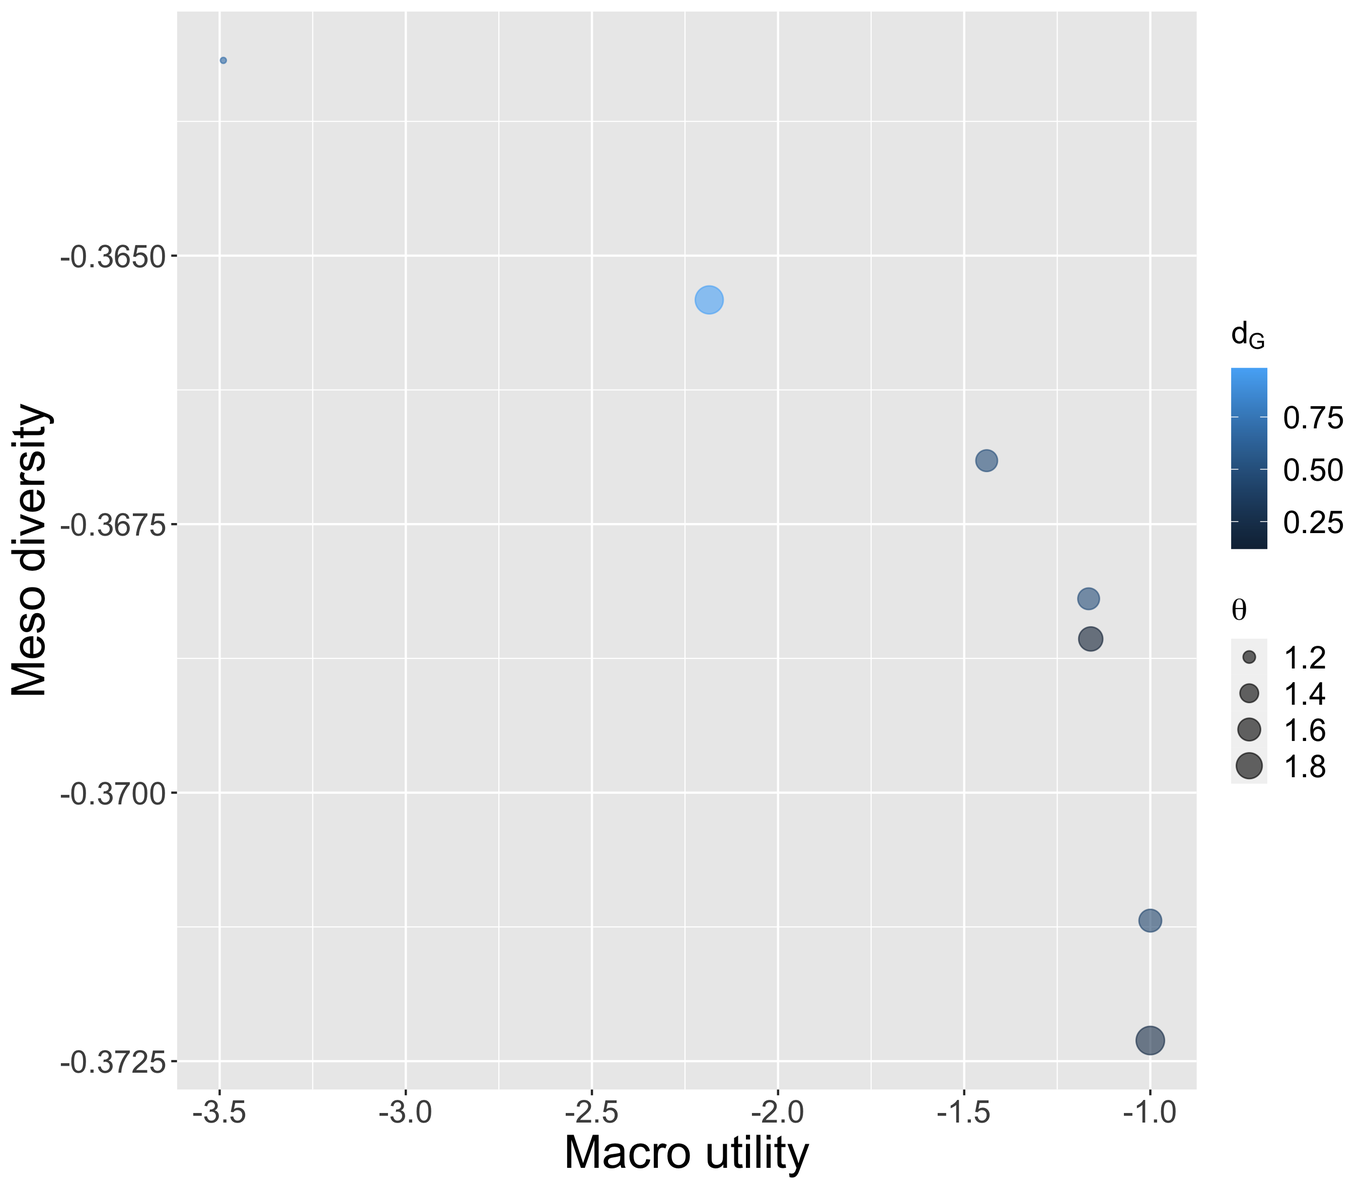
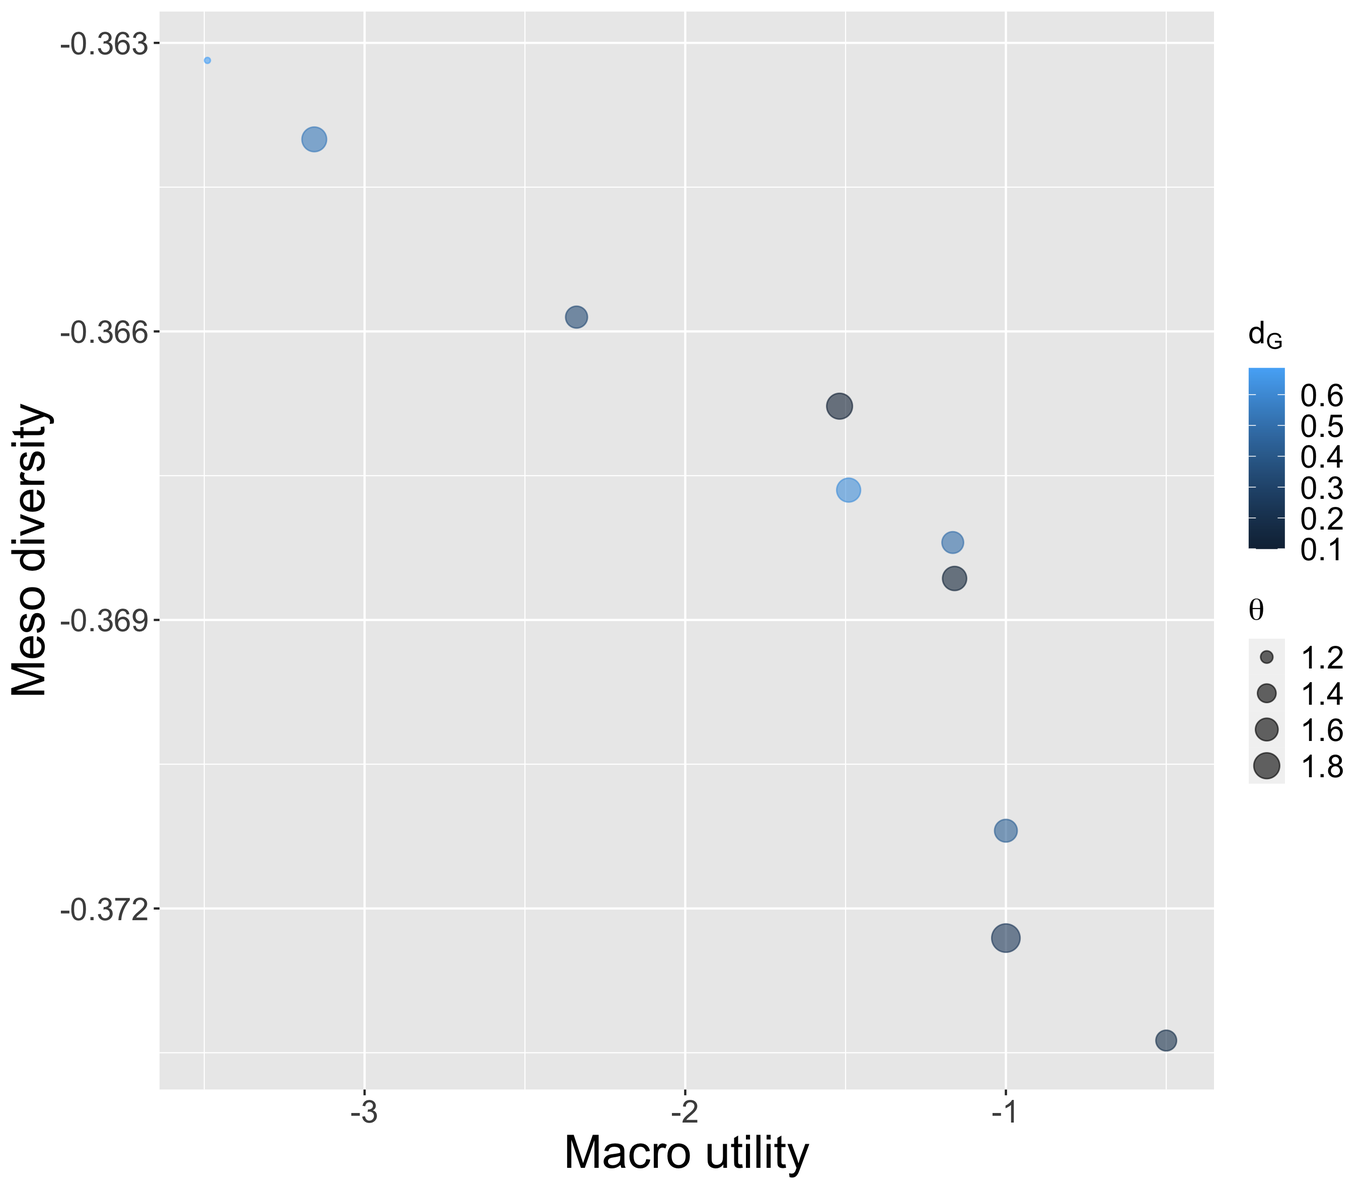
camera_ready

diff --git a/main.tex b/main.tex
@@ -6,14 +6,14 @@
 \mathtoolsset{showonlyrefs} 
 
 \title{Innovation dynamics in multi-scalar systems of cities}
-% Multi-scalar innovation dynamics in systems of cities
-%\author{Juste Raimbault$^{1,2,3,4}$ \and Denise Pumain$^{4}$\\
-%\mbox{$^1$ LASTIG, Univ. Gustave Eiffel, IGN-ENSG}\\
-%\mbox{$^2$ CASA, UCL}\\
-%\mbox{$^3$} UPS CNRS 3611 ISC-PIF\\
-%\mbox{$^4$ UMR CNRS 8504 G{\'e}ographie-cit{\'e}}s\\
-%juste.raimbault@ign.fr}
-\author{}
+
+\author{Juste Raimbault$^{1,2,3,4}$ \and Denise Pumain$^{4}$\\
+\mbox{$^1$ LASTIG, Univ. Gustave Eiffel, IGN-ENSG}\\
+\mbox{$^2$ CASA, UCL}\\
+\mbox{$^3$} UPS CNRS 3611 ISC-PIF\\
+\mbox{$^4$ UMR CNRS 8504 G{\'e}ographie-cit{\'e}}s\\
+juste.raimbault@ign.fr}
+
 % $^*$Each submission will undergo a double-blind review process. To this end, submissions should NOT contain any element that could reveal \\ the identity of the authors (author names, affiliations, funding details and acknowledgments), and should use the third person to refer to \\ previous work by the authors. These notes should be removed/commented out, but please remember that the page limit will remain, strictly, \\8 pages (not including citations) in case of acceptance, with mandatory name(s), affiliation(s), and email address of a corresponding author. \\
 
 
@@ -22,7 +22,7 @@
 
 \begin{abstract}
 % Abstract length should not exceed 250 words
-Innovation dynamics in social and technological systems are strongly linked with urban systems and their multi-scale properties. Understanding underlying processes is crucial for sustainable territorial planning. We introduce a multi-scalar model for innovation dynamics in systems of cities, coupling a macroscopic innovation diffusion and urban dynamics model with mesoscopic models for local innovation clusters. The model parameter space is explored, and we apply it to a bi-objective optimisation with objectives across scales. Implementing indicators for downward causation, we finally investigate with a diversity search algorithm the diverse regimes of emergence the model can produce. This suggests strong emergence is captured, confirming the relevance of multi-scale approaches to artificial societies and urban simulation.
+Innovation dynamics in social and technological systems are strongly linked to urban systems and their multi-scale properties. Understanding underlying processes is crucial for sustainable territorial planning. We introduce a multi-scalar model for innovation dynamics in systems of cities, coupling a macroscopic innovation diffusion and urban dynamics model with mesoscopic models for local innovation clusters. The model parameter space is explored, and we apply a bi-objective optimisation algorithm with objectives across scales. Implementing indicators for downward causation, we finally investigate with a diversity search algorithm the diverse regimes of emergence the model can produce. This suggests strong emergence is captured, confirming the relevance of multi-scale approaches to artificial societies and urban simulation.
 \end{abstract}
 
 % keywords
@@ -61,7 +61,7 @@ At the macroscopic scale, agents in the model are $N$ urban areas indexed by $i$
 
 The mesoscopic geographical scale corresponds to the internal representation of each area, which consists in a cluster of firms. The number of firms $N_i$ in each area scales with city size \citep{pumain2006evolutionary}, such that $N_i = N_0 \cdot \left(\frac{P_i (t_0)}{P_0 (t_0)}\right)^{\alpha_N}$. We furthermore consider a global rank-size law for the size of firms (number of employees), in accordance with the empirical literature \citep{axtell2001zipf}, given by $S_k = S_0 \cdot k^{- \alpha_S}$, where $k$ is sorted in decreasing order, and such that $1 \leq k \leq \sum_i N_i$. To distribute initial firms into the urban areas: (i) we assume that the size of the largest firm scales with city size $\max_{k\in i} S_k = S_0 \cdot k^{- \alpha_L}$; (ii) sampling the set of all firms previously generated, we select for each area its largest by choosing the one with a size closest to the one given by the previous law; (iii) remaining missing firms are uniformly drawn within the sample of firms smallest than the largest, starting with the smallest urban area such that all firms are distributed in the end.
 
-Each innovation cluster is initialised with random employees within each firm (an employee corresponding to a set of ideas, i.e. a multidimensional genome), and with a random fitness to maximise following \cite{raimbault2022innovation} given by a generalised Rastrigin function $y(\vec{x}) = - \sum_{i,j} m_{ij} \left[x_i^2 - 10 \cos\left(2 \pi x_i\right) \right] $ for an employee ideas $\vec{x}$ and $m_{ij}$ uniformly drawn random coefficients. Firms have uniformly distributed locations within each area. Each area has its own meso parameters (listed below), initialised at the same value but evolving in different ways with the macro trajectory of the city.
+Each innovation cluster is initialised with random employees within each firm (an employee corresponding to a set of ideas, i.e. a multidimensional genome), and with a random fitness to maximise following \cite{raimbault2022innovation} given by a generalised Rastrigin function $y(\vec{x}) = - \sum_{i,j} m_{ij} \left[x_i^2 - 10 \cos\left(2 \pi x_i\right) \right] $ for an employee ideas $\vec{x}$ and $m_{ij}$ uniformly drawn random coefficients. Such difficult optimisation landscapes have been used in the literature as a proxy of what firms seek to optimise. Firms have uniformly distributed locations within each area. Each area has its own meso parameters (listed below), initialised at the same value but evolving in different ways with the macro trajectory of the city.
 
 
 \subsubsection{Model dynamics}
@@ -90,9 +90,9 @@ The dynamics are simulated in an iterative way, starting from the initial state 
             with $\phi_c$ macro adoption levels, $d_G$ migration range parameter, $w_I$ weight parameter, and with a renormalisation by the average of gravity potentials (note the typo in \citep{raimbault2020model}: attractivity factors are indeed outside the exponential);
             \item innovative cities obtained from the meso-scale introduce new innovations, with an initial penetration rate $r_0$, and with a log-normal distributed random utility with average the current average of utilities and standard deviation a parameter $\sigma_U$ (the link between meso performance and macro utility is not endogenous, as it would require much more elaborated modelling of market processes).
         \end{itemize}
-\item \textbf{Top-down feedback:} we consider two different processes through which macro dynamics will influence the next meso innovation cycles, in a way similar to \cite{raimbault2021strong}; given the relative population growth of cities at the macro scale $\delta p = \frac{P_i(t)-P_i(t-1)}{\max_j P_i(t)-P_i(t-1)}$, we assume that this captures a dynamic urban environment with consequences on firm strategy and local exchanges (we do not consider innovation share dynamics as once again the underlying economic processes are to broad to link these with city global integration and performance);
+\item \textbf{Top-down feedback:} we consider two different processes through which macro dynamics will influence the next meso innovation cycles, in a way similar to \cite{raimbault2021strong}; given the relative population growth of cities at the macro scale $\delta p = \frac{P_i(t)-P_i(t-1)}{\max_j P_i(t)-P_i(t-1)}$, we assume that this captures a dynamic urban environment with consequences on firm strategy and local exchanges (we do not consider in this top-down feedback the other main process of the macro model, which are innovation share dynamics; once again the underlying economic processes are too broad to link these with city global integration and performance);
     \begin{itemize}
-        \item firm strategy is updated by changing crossover probability (organisation of R\&D teams) and mutation probability (access to resources) following \[p_C(t+1,i) = p_C (t,i)\cdot (1+ \beta_C \delta_p)\] and \[p_M(t+1,i) = p_M (t,i)\cdot (1+ \beta_M \delta_p)\] - a positive value for the $\beta_C$ parameter (resp. $\beta_M$) will mean that the company follows the city trend (more intensive research in growing area and less in stagnating ones), while a negative value will imply an inverse strategy (large research centers in less dynamic areas - which can occur for many other economic, geographical and social reasons, including policy incentive to redevelop such areas);
+        \item firm strategy is updated by changing crossover probability (organisation of R\&D teams) and mutation probability (access to resources) following \[p_C(t+1,i) = p_C (t,i)\cdot (1+ \beta_C \delta_p)\] and \[p_M(t+1,i) = p_M (t,i)\cdot (1+ \beta_M \delta_p)\] - a positive value for the $\beta_C$ parameter (resp. $\beta_M$) will mean that the company follows the city trend (more intensive research in growing area and less in stagnating ones), while a negative value will imply an inverse strategy (large research centres in less dynamic areas - which can occur for many other economic, geographical and social reasons, including policy incentive to redevelop such areas);
         \item the urban environment, in terms of informal exchanges, is also influenced in a similar way following
         \[p_E(t+1,i) = p_E (t,i)\cdot (1+ \beta_E \delta_p)\]
     \end{itemize}
@@ -116,14 +116,10 @@ Crucial indicators to answer our research question must be some proxy to measure
 
 \section{Results}
 
-% reorg: model parametrisation single subsec
-%\subsection{Setup for numerical experiments}
 
 \subsection{Model implementation}
 
-The simulation model is implemented in \texttt{scala} for performance purposes. The JIDT java library is used to estimate mutual information for the downward causation indicators \citep{lizier2014jidt}. The model is integrated into the OpenMOLE platform for model exploration and validation \citep{reuillon2013openmole}, which provides a transparent access to high performance computing environments and state-of-the-art sensitivity analysis and validation methods. Model source code and analysis of simulation results are available on an open git repository at \texttt{https://github.com/AnonymousAuthor1/ALife2023}.
-%Simulation data produced by the numerical experiments described below are available at \texttt{}.
-%  anon git repo ; anon dataverse?
+The simulation model is implemented in \texttt{scala} for performance purposes. The JIDT java library is used to estimate mutual information for the downward causation indicators \citep{lizier2014jidt}. The model is integrated into the OpenMOLE platform for model exploration and validation \citep{reuillon2013openmole}, which provides a transparent access to high performance computing environments and state-of-the-art sensitivity analysis and validation methods. Model source code and analysis of simulation results are available on an open git repository at \texttt{https://github.com/JusteRaimbault/}\\\texttt{InnovationMultiscale-model}.
 
 
 \subsubsection{Model parametrisation}
@@ -153,7 +149,7 @@ The parameter left free and that will be explored in the numerical experiments a
 % - statistical valid: LSH with many replications
 % ! rerun simus on grid
 
-We first test the statistical behavior of the model, in particular how much repetitions are needed to have a reasonable estimation of indicators. We use a Latin Hypercube Sampling to draw a few parameter points (10 points) in the full variable parameter space, and run 100 repetitions of the model on each. Estimating Sharpe ratios as the ratio between estimated mean and estimated standard deviation over the repetitions, we obtain across all macro and meso indicators all median ratios above 2, and a minimum across parameter points of 0.932 for the macro utility. Looking at all distance between couples of indicator averages, normalised by standard deviations (capturing the overlap between effect difference and standard errors), we find a minimal median of 0.3002 for meso diversity, while other indicators have a median around 0.4 (0.4264 for macro utility). This means a rather good statistical separability of parameter points, and that 10 repetitions are enough for the stochastic variability to induce smaller noise than confidence intervals for averages.
+We first test the statistical behavior of the model, in particular how much repetitions are needed to have a reasonable estimation of indicators. We explore a grid of 288 parameter points, and run 20 repetitions of the model on each. Estimating Sharpe ratios as the ratio between estimated mean and estimated standard deviation over the repetitions, we obtain across all macro and meso indicators all median ratios above or around 2, and a minimum across parameter points of 0.858 for the macro utility. Looking at all distance between couples of indicator averages, normalised by standard deviations (capturing the overlap between effect difference and standard errors), we find a minimal median of 0.19 for meso diversity, while other indicators have a median between 0.24 and 0.3. This means a rather good statistical separability of parameter points, and that 10 repetitions are enough for the stochastic variability to induce smaller noise than confidence intervals for averages.
 
 \subsection{Grid exploration}
 
@@ -163,7 +159,7 @@ We then turn to a grid exploration of a portion of the parameter space, to under
 
 
 
-We draw some plots of indicator behaviour in Fig.~\ref{fig:explo}. We find that the feedback parameter on the urban environment $\beta_E$ has a qualitative influence on the macro utility: while with a U-shape or stagnating for negative values, it become either strongly decreasing ($theta=1$) or increasing ($\theta=2$) as a function of $d_G$. This implies that policies can in some cases reverse the effect of geography, what would correspond to voluntary development of stagnating regions. The role of $d_I$ also qualitatively changes, meaning that its influence can be changed. A diversity of behaviours is also observed for the meso fitness. For both levels, $\theta$ also strongly changes qualitative behaviours - meaning that thresholds to access the market have in the end a long term impact on the overall system. Altogether, the influence of both feedback parameter can not be intuited from the beginning, and this first exploration allows diving in the complexity of model dynamics.
+We draw some plots of indicator behaviour in Fig.~\ref{fig:explo}. We find that the feedback parameter on the urban environment $\beta_E$ has a qualitative influence on the macro utility: while having comparatively small variations for negative values (left column), it becomes either strongly decreasing ($\theta=1$) or increasing ($\theta=2$) as a function of $d_G$. This implies that policies can in some cases reverse the effect of geography, what would correspond to voluntary development of stagnating regions. The role of $d_I$ also qualitatively changes, meaning that the distance of exchanges will affect differently interventions. A diversity of behaviours is also observed for the meso fitness. For both levels, $\theta$ also strongly changes qualitative behaviours - meaning that thresholds to access the market have in the end a long term impact on the overall system. Altogether, the influence of both feedback parameter can not be intuited from the beginning, and this first exploration allows diving in the complexity of model dynamics.
 
 \subsection{Multi-objective optimisation}
 
@@ -179,20 +175,20 @@ We run a NSGA2 bi-objective algorithm, for 10000 generations, with a population 
     \caption{Pareto front between the opposite of macro utility and the opposite of meso diversity (both to be minimised to maximise the original objectives). Point color gives interaction distance $d_G$ and point size the innovation threshold $\theta$.\label{fig:pareto}}
 \end{figure}
 
-We find first of all a very reduced number of points, suggesting that the optimisation is difficult. They however form a clean Pareto front, with a concave shape - on the contrary to convex fronts generally obtained. This means that extreme points are rather good compromises, witnessing very different regimes which can lead to optima. The middle point corresponds to long interaction distances, while extremities are local regimes, what could be evidence for a detrimental globalisation in that case. It is also the regime where innovation threshold is the highest, corresponding to a more competitive environment. This optimisation exercise confirms that both scales can be simultaneously taken into account and optimised in policy design.
+We find first of all a reduced number of points (10), suggesting that the optimisation is difficult. They however form a Pareto front, with a concave shape - on the contrary to convex fronts generally obtained. This means that extreme points are rather good compromises, witnessing very different regimes which can lead to optima. A middle point corresponds to long interaction distances (large $d_G$), while some points around and on the right extremity of the front are local regimes (small $d_G$), what could be evidence for a detrimental globalisation in that case. It is also a regime where innovation threshold is high, corresponding to a more competitive environment. This optimisation exercise confirms that both scales can be simultaneously taken into account and optimised in policy design.
 
 
 \subsection{Searching for diversity in regimes of emergence}
 
 % - specific experiment for downard causation : indicator? -> search with PSE?
 
-We finally use the downward causation indicators to investigate which kind of emergence the model produces. We apply the PSE (Pattern Space Exploration) algorithm, implemented in OpenMOLE by \cite{cherel2015beyond}, and which is a hitmap-based diversity search algorithm, to explore the feasible space of these indicators. We run the algorithm for 10000 generations, with 3 objectives $\Psi (U)$, $\Delta (U)$, $\Gamma (U)$, the downard causation indicators on macro utility.
+We finally use the downward causation indicators to investigate which kind of emergence the model produces. We apply the PSE (Pattern Space Exploration) algorithm, implemented in OpenMOLE by \cite{cherel2015beyond}, and which is a hitmap-based diversity search algorithm, to explore the feasible space of these indicators. We run the algorithm for 10000 generations, with 3 objectives $\Psi (U)$, $\Delta (U)$, $\Gamma (U)$, the downward causation indicators on macro utility.
 
 
 \begin{figure}[h!]
     \centering
     \includegraphics[width=\linewidth]{figures/pse-psi-delta-utility_colorGamma_sizetheta.png}
-    \caption{Scatter plot between $\Psi (U)$ and $\Delta (U)$, obtained with the PSE diversity search algorithm. Point color gives $\Gamma (U)$ and point size the innovation threshold $\theta$.\label{fig:pse}}
+    \caption{Scatter plot between $\Psi (U)$ and $\Delta (U)$, obtained with the PSE diversity search algorithm. Point colour gives $\Gamma (U)$ and point size the innovation threshold $\theta$.\label{fig:pse}}
 \end{figure}
 
 The point cloud obtained is shown in Fig.~\ref{fig:pse}. We find a rather covering cloud, meaning that the model covers a great variety of regimes of emergence. A part of the points are gathered around $\Psi \sim 0$ for varying $\Delta$, corresponding to cases with no causal emergence but downward causation. Several points, disseminated across the cloud, have a value of $\Gamma$ close to 0, implying an autonomy between scale for the positive $\Psi$. $\Delta$ is never negative nor close to 0, meaning that downward causation always occurs, what could have been expected through the explicit top-down feedback process. Altogether, this last experiments confirms that the model captures strong emergence, but also a great variety of causal regimes between scales.
@@ -227,13 +223,13 @@ The point cloud obtained is shown in Fig.~\ref{fig:pse}. We find a rather coveri
 
 We have introduced a multi-scalar model for innovation dynamics in systems of cities. Our numerical experiments show, beyond basic model validation and exploration, that (i) contradictory objectives can be optimised through policies across scales, suggesting that this type of approach could further be explored for territorial sustainability; (ii) strong emergence and a great diversity of emergence regimes are captured by the model - confirming the relevance of strongly coupling scale and building such a ``complicated'' model, beyond a single scale.
 
-Several limits can at this stage be identified, and should be worked on for future extensions. The unidimensional innovation space is a strong limitation, keeping the model abstract and difficult to link with data. The economic structure and processes is also very simplified, as we are closer to a phenomenological model. Coupling with economic agent-based models is a perspective fir this issue. Regarding the time scales and evolution of urban areas, we also did not include migration of employees - assuming constant team sizes - what is fine with the idea reinitialisation setting at each time step, but what would cause more problems if we add memories to companies and employees. In that context, team diversity is crucial for innovation, but the role of sizes and their evolution in time is less clear \citep{hoisl2017r} - so translating population migration directly into firm sizes may not be the best solution. We did not include changes in macro parameters as \cite{raimbault2021strong} does, what could be a way to incorporate more bottom-up feedback in the model.
+Several limits can at this stage be identified, and should be considered for future extensions. The unidimensional innovation space is a strong limitation, keeping the model abstract and difficult to link with data. The economic structure and processes is also very simplified, as we are closer to a phenomenological model. Coupling with economic agent-based models is a perspective for this issue. Regarding the time scales and evolution of urban areas, we also did not include migration of employees - assuming constant team sizes - what is fine with the idea of reinitialised settings at each macro time step, but what would cause more problems if we add memories to companies and employees. In that context, team diversity is crucial for innovation, but the role of sizes and their evolution in time is less clear \citep{hoisl2017r} - so translating population migration directly into firm sizes may not be the best solution. We did not include changes in macro parameters as \cite{raimbault2021strong} does, what could be a way to incorporate more bottom-up feedback in the model.
 
-Finally, future developments on empirical data would need some model adaptation and complicated data collection and processing work (in particular to find proxies for innovation, and also firm data which is quite rare), but would be necessary for real-world applications of the model beyond stylised policies.
+Finally, future developments on empirical data would need some model adaptation and complicated data collection and processing work. In particular, finding proxies for innovation, and also collecting firm data which is quite rare, are crucial issues. Such an empirical approach would however be necessary for real-world applications of the model beyond stylised policies.
 
 \section{Conclusion}
 
-This work introduced a first modelling and simulation step towards multi-scalar quantitative approaches to systems of cities, focused on innovation dynamics in our case. The numerical explorations, lead with advanced model validation techniques with the OpenMOLE software, confirm the relevance of the model, in particular through its ability to capture a diversity of emergence regimes. This consists a first step towards more elaborated integrated urban models for sustainable policies.
+This work introduced a first modelling and simulation step towards multi-scalar quantitative approaches to systems of cities, focused on innovation dynamics in this case. The numerical explorations, achieved with advanced model validation techniques with the OpenMOLE software, confirm the relevance of the model, in particular through its ability to capture a diversity of emergence regimes. This provides a first step towards more elaborated integrated urban models for sustainable policies.
 
 
 
